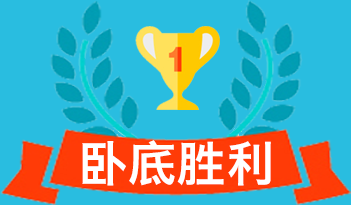
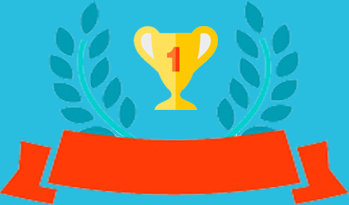
task7修改

diff --git a/task7/css/vote.css b/task7/css/vote.css
@@ -95,7 +95,7 @@ main{
 	right: .15rem;
 	margin-top: -0.26rem;
 	width: .52rem;
-	height: .53rem;
+	height: .52rem;
 	background: url(../images/vote.png) -0.02rem -2.23rem;
 	background-size: 0.56rem 3.33rem;
 }
@@ -128,10 +128,10 @@ main{
 
 /* 玩家身份 */
 .identity{
-	height: .9rem;
+	height: .89rem;
 	width: 100%;
     font-size: .3rem;
-    line-height: .9rem;
+    line-height: .89rem;
     background-color: #f5c97b;
     color: #565656;
 }
@@ -146,6 +146,7 @@ main{
 /* 玩家头像下面四个小图标 */
 .knife{
 	display: inline-block;
+	margin-right: 2%;
 	width: .3rem;
 	height: .3rem;
 	background: url(../images/vote.png) -0.02rem -0.02rem;
@@ -154,6 +155,7 @@ main{
 
 .glass{
 	display: inline-block;
+	margin-right: 2%;
 	width: .3rem;
 	height: .3rem;
 	background: url(../images/vote.png) -0.02rem -0.36rem;
@@ -162,6 +164,7 @@ main{
 
 .position{
 	display: inline-block;
+	margin-right: 2%;
 	width: .3rem;
 	height: .3rem;
 	background: url(../images/vote.png) -0.02rem -0.7rem;
@@ -178,6 +181,8 @@ main{
 
 /* 隐藏四个小图标 */
  .toolbar{
+ 	width: 1.34rem;
+ 	font-size: 0;
 	visibility: hidden;
 } 
 

diff --git a/task7/result.html b/task7/result.html
@@ -26,10 +26,13 @@
 	<!-- header结束 -->
 	<!-- main 开始 -->
 	<div class="container-fluid main">
-		<div class="row victory">
+		<div class="row">
 			<div class="col-xs-12 result" align="center">
-				<img src="images/victory.png"></i>
-				<div>太棒了!你知道么？在捉鬼游戏中 只有20%的卧底取得游戏最终的胜利哦！</div>
+				<div>
+					<img src="images/victory.png">
+				    <p>卧底胜利</p>
+				</div>
+				<span>太棒了!你知道么？在捉鬼游戏中 只有20%的卧底取得游戏最终的胜利哦！</span>
 			</div>
 		</div>
 		<div class="row data">
@@ -97,12 +100,12 @@
 		</div>
 		<div class="row game-process">
 			<div class="col-xs-12">
-				晚上： 5号被杀手杀死， 5号是水民
+				晚上： 5号被杀手杀死，5号是水民
 			</div>
 		</div>
 		<div class="row game-process bottom-line">
 			<div class="col-xs-12">
-				白天： 8号被全民投票投死， 8号是杀手
+				白天： 8号被全民投票投死，8号是杀手
 			</div>
 		</div>
 		<div class="row unknow">

diff --git a/task7/css/result.css b/task7/css/result.css
@@ -55,7 +55,7 @@ header{
 /* 头部右侧图标 */
 .help{
 	display: inline-block;
-	width: .41rem;
+	width: .4rem;
 	height: .42rem;
 	vertical-align: middle;
 	background: url(../images/result.png) -0.66rem -0.05rem;
@@ -77,27 +77,25 @@ header{
 
 /* 卧底胜利图片 */
 .result img{
+	margin-top: .4rem;
 	width: 3.51rem;
 	height: 2.05rem;
 }
+/* 卧底胜利文字 */
+.result p{
+	margin-top: -0.75rem;
+	margin-bottom: .2rem;
+	font-size: .481rem;
+	color: #fff;
+}
 
 /* 卧底胜利文字解说 */
-.result div{
+.result span{
+	display: inline-block;
+	margin-bottom: .4rem;
 	font-size: .33rem;
 	text-align: left;
 	color: #ffc865;
-}
-
-/* 当屏幕过大文字排成一行时，文字居中 */
-@media screen and (min-width: 1157px){
-	.result div{
-	text-align: center;
-   }
-}
-
-.victory{
-     margin-top: .4rem;
-     margin-bottom: .4rem;
 }
 
 /* 玩家身份统计 */

diff --git a/task7/index.html b/task7/index.html
@@ -18,7 +18,7 @@
 		</div>
 		<div class="slayer">
 			<div class="slayer-head">捉鬼游戏</div>
-			<div class="edition"><a href="vote.html">简化版</a></div>
+			<a href="vote.html"><div class="edition">简化版</div></a>
 			<div class="player-num">有1133个用户正在玩此款游戏
 			</div>
 			<div class="edition">猜词版</div>

diff --git a/task7/css/index.css b/task7/css/index.css
@@ -131,7 +131,6 @@ main{
 
 a{
 	text-decoration: none;
-	color: #fff;
 }
 
 /* 改版本玩家人数 */
